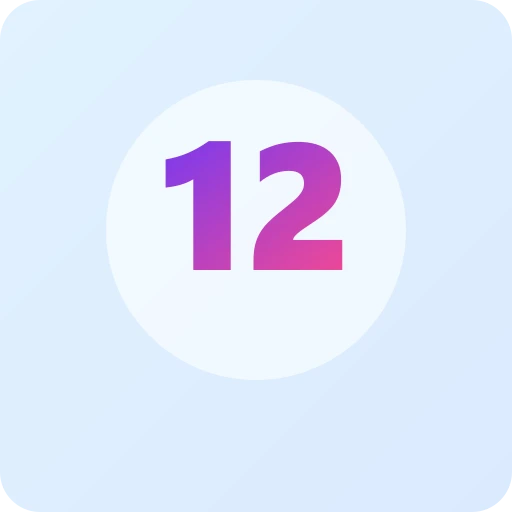
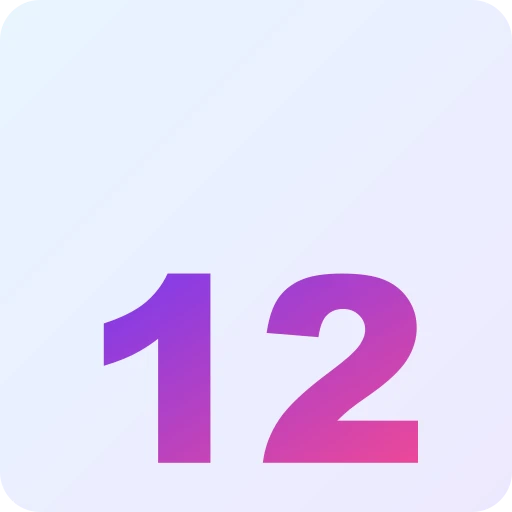
Fix letter choices shuffling, VO replay, image preloading, bigger numbers
Critical fix: LetterDragDrop choices were reshuffling on every render
because `letters` array was recreated each time, invalidating useMemo.
Now depends only on `word` string. Used choices go invisible but keep
position (opacity-0, pointer-events-none). Proper slot-to-choice mapping
via usedMap so removal restores the correct choice.

Other fixes:
- VO now replays when returning to a previously visited word in Learn
- Image preloading: batch-loads level images on mount via requestIdleCallback
- Xylophone.mp3 copied from source project
- Number images regenerated: bigger text, centered with dominant-baseline
- Pre-filled slots use light teal (not purple) to distinguish from empty
- Reduced gap between image and practice area
- Slots and choices bigger (w-10 h-12 / sm:w-12 sm:h-14)

Changed region(s): [[0.1875, 0.25, 0.8438, 0.9062]]

diff --git a/src/components/practice/LetterDragDrop.jsx b/src/components/practice/LetterDragDrop.jsx
@@ -1,4 +1,4 @@
-import { useState, useMemo, useCallback, useRef } from 'react'
+import { useState, useMemo, useCallback } from 'react'
 import { motion } from 'framer-motion'
 
 function shuffleArray(arr) {
@@ -12,135 +12,118 @@ function shuffleArray(arr) {
 
 export default function LetterDragDrop({ current, level, onCorrect, onWrong, answered }) {
   const word = current.word.toLowerCase()
-  const letters = word.split('')
 
-  const { slots: initialSlots, choices: initialChoices } = useMemo(() => {
+  const { prefilled, choices } = useMemo(() => {
+    const letters = word.split('')
+    let prefilled
+    let choiceLetters
+
     if (level === 2) {
       const revealed = new Set()
       const revealCount = Math.max(1, Math.floor(letters.length * 0.4))
       while (revealed.size < revealCount) {
         revealed.add(Math.floor(Math.random() * letters.length))
       }
-      const slots = letters.map((l, i) => revealed.has(i) ? l : null)
-      const missing = letters.filter((_, i) => !revealed.has(i))
-      return { slots, choices: shuffleArray(missing) }
+      prefilled = letters.map((l, i) => revealed.has(i) ? l : null)
+      choiceLetters = letters.filter((_, i) => !revealed.has(i))
+    } else if (level === 3) {
+      prefilled = letters.map(() => null)
+      choiceLetters = [...letters]
+    } else {
+      prefilled = letters.map(() => null)
+      const extras = 'abcdefghijklmnopqrstuvwxyz'.split('').filter(c => !letters.includes(c))
+      const distractorCount = Math.min(Math.max(4, Math.floor(letters.length * 0.6)), extras.length)
+      const distractors = shuffleArray(extras).slice(0, distractorCount)
+      choiceLetters = [...letters, ...distractors]
     }
-    if (level === 3) {
-      const slots = letters.map(() => null)
-      return { slots, choices: shuffleArray([...letters]) }
-    }
-    const slots = letters.map(() => null)
-    const extras = 'abcdefghijklmnopqrstuvwxyz'.split('').filter(c => !letters.includes(c))
-    const distractorCount = Math.min(Math.max(4, Math.floor(letters.length * 0.6)), extras.length)
-    const distractors = shuffleArray(extras).slice(0, distractorCount)
-    return { slots, choices: shuffleArray([...letters, ...distractors]) }
-  }, [current.word, level, letters])
 
-  const [slots, setSlots] = useState(initialSlots)
-  const [usedChoices, setUsedChoices] = useState(new Set())
+    return {
+      prefilled,
+      choices: shuffleArray(choiceLetters),
+    }
+  // eslint-disable-next-line react-hooks/exhaustive-deps
+  }, [word, level])
+
+  const [slots, setSlots] = useState(prefilled)
+  const [usedMap, setUsedMap] = useState({})
   const [wrongSlot, setWrongSlot] = useState(null)
-  const [draggingIdx, setDraggingIdx] = useState(null)
-  const slotRefs = useRef([])
 
-  const nextEmptySlot = slots.findIndex(s => s === null)
+  const letters = word.split('')
+  const nextEmpty = slots.findIndex(s => s === null)
 
-  const placeLetter = useCallback((letter, choiceIndex) => {
-    if (answered) return
-    if (nextEmptySlot === -1) return
+  const placeLetter = useCallback((letter, choiceIdx) => {
+    if (answered || nextEmpty === -1) return
 
-    const correctLetter = letters[nextEmptySlot]
-    if (letter === correctLetter) {
+    if (letter === letters[nextEmpty]) {
       const newSlots = [...slots]
-      newSlots[nextEmptySlot] = letter
+      newSlots[nextEmpty] = letter
       setSlots(newSlots)
-      setUsedChoices(prev => new Set([...prev, choiceIndex]))
+      setUsedMap(prev => ({ ...prev, [choiceIdx]: nextEmpty }))
 
       if (newSlots.every(s => s !== null)) {
         setTimeout(onCorrect, 300)
       }
     } else {
-      setWrongSlot(nextEmptySlot)
+      setWrongSlot(nextEmpty)
       setTimeout(() => setWrongSlot(null), 500)
       onWrong()
     }
-    setDraggingIdx(null)
-  }, [answered, nextEmptySlot, letters, slots, onCorrect, onWrong])
+  }, [answered, nextEmpty, letters, slots, onCorrect, onWrong])
 
-  const removeFromSlot = useCallback((slotIndex) => {
+  const removeFromSlot = useCallback((slotIdx) => {
     if (answered) return
-    if (initialSlots[slotIndex] !== null) return
-    if (slots[slotIndex] === null) return
+    if (prefilled[slotIdx] !== null) return
+    if (slots[slotIdx] === null) return
 
     let lastFilled = -1
     for (let i = slots.length - 1; i >= 0; i--) {
-      if (slots[i] !== null && initialSlots[i] === null) { lastFilled = i; break }
+      if (slots[i] !== null && prefilled[i] === null) { lastFilled = i; break }
     }
-    if (slotIndex !== lastFilled) return
+    if (slotIdx !== lastFilled) return
 
     const newSlots = [...slots]
-    newSlots[slotIndex] = null
+    newSlots[slotIdx] = null
     setSlots(newSlots)
 
-    const usedArr = [...usedChoices]
-    const lastUsed = usedArr[usedArr.length - 1]
-    const newUsed = new Set(usedArr.slice(0, -1))
-    setUsedChoices(newUsed)
-  }, [answered, slots, initialSlots, usedChoices])
-
-  const handleDragStart = useCallback((e, choiceIndex) => {
-    setDraggingIdx(choiceIndex)
-    e.dataTransfer.setData('text/plain', String(choiceIndex))
-    e.dataTransfer.effectAllowed = 'move'
-  }, [])
-
-  const handleTouchStart = useCallback((choiceIndex) => {
-    setDraggingIdx(choiceIndex)
-  }, [])
-
-  const handleTouchEnd = useCallback((letter, choiceIndex) => {
-    if (draggingIdx === choiceIndex) {
-      placeLetter(letter, choiceIndex)
+    const choiceIdx = Object.entries(usedMap).find(([, s]) => s === slotIdx)?.[0]
+    if (choiceIdx != null) {
+      setUsedMap(prev => {
+        const next = { ...prev }
+        delete next[choiceIdx]
+        return next
+      })
     }
-    setDraggingIdx(null)
-  }, [draggingIdx, placeLetter])
+  }, [answered, slots, prefilled, usedMap])
 
-  const handleDrop = useCallback((e) => {
-    e.preventDefault()
-    const choiceIndex = Number(e.dataTransfer.getData('text/plain'))
-    if (!isNaN(choiceIndex) && !usedChoices.has(choiceIndex)) {
-      placeLetter(initialChoices[choiceIndex], choiceIndex)
-    }
-  }, [initialChoices, usedChoices, placeLetter])
-
-  const handleDragOver = useCallback((e) => {
-    e.preventDefault()
-    e.dataTransfer.dropEffect = 'move'
-  }, [])
+  const usedSet = new Set(Object.keys(usedMap).map(Number))
 
   return (
-    <div className="flex flex-col items-center gap-3 w-full">
-      {/* Slots */}
+    <div className="flex flex-col items-center gap-2 w-full">
+      {/* Slots row */}
       <div
-        className="flex flex-wrap justify-center gap-1 sm:gap-1.5"
-        onDrop={handleDrop}
-        onDragOver={handleDragOver}
+        className="flex flex-wrap justify-center gap-1.5 sm:gap-2"
+        onDragOver={(e) => { e.preventDefault(); e.dataTransfer.dropEffect = 'move' }}
+        onDrop={(e) => {
+          e.preventDefault()
+          const idx = Number(e.dataTransfer.getData('text/plain'))
+          if (!isNaN(idx) && !usedSet.has(idx)) placeLetter(choices[idx], idx)
+        }}
       >
         {slots.map((letter, i) => {
-          const isPreFilled = initialSlots[i] !== null
-          const isCurrent = i === nextEmptySlot
+          const isPre = prefilled[i] !== null
+          const isCurrent = i === nextEmpty
           const isWrong = wrongSlot === i
           return (
             <motion.div
               key={i}
-              ref={el => slotRefs.current[i] = el}
-              className={`w-8 h-10 sm:w-10 sm:h-12 md:w-12 md:h-14 rounded-xl flex items-center justify-center text-lg sm:text-xl md:text-2xl font-extrabold border-2 transition-all
-                ${isPreFilled ? 'bg-purple-100 border-purple-200 text-purple-600' : ''}
-                ${!isPreFilled && letter ? 'bg-teal-100 border-teal-300 text-teal-700 cursor-pointer' : ''}
-                ${!isPreFilled && !letter && isCurrent ? 'bg-yellow-50 border-yellow-400 border-dashed' : ''}
-                ${!isPreFilled && !letter && !isCurrent ? 'bg-gray-50 border-gray-200' : ''}
+              className={`w-10 h-12 sm:w-12 sm:h-14 rounded-xl flex items-center justify-center text-xl sm:text-2xl font-extrabold border-2
+                ${isPre ? 'bg-teal-50 border-teal-200 text-teal-600' : ''}
+                ${!isPre && letter ? 'bg-teal-100 border-teal-300 text-teal-700 cursor-pointer' : ''}
+                ${!isPre && !letter && isCurrent ? 'bg-yellow-50 border-yellow-400 border-dashed' : ''}
+                ${!isPre && !letter && !isCurrent ? 'bg-gray-50 border-gray-200' : ''}
                 ${isWrong ? 'bg-red-100 border-red-400' : ''}
               `}
-              animate={isWrong ? { x: [0, -5, 5, -5, 0] } : {}}
+              animate={isWrong ? { x: [0, -6, 6, -6, 0] } : {}}
               transition={{ duration: 0.3 }}
               onClick={() => removeFromSlot(i)}
             >
@@ -150,30 +133,27 @@ export default function LetterDragDrop({ current, level, onCorrect, onWrong, ans
         })}
       </div>
 
-      {/* Letter choices - stable positions, used ones become invisible */}
-      <div className="flex flex-wrap justify-center gap-1 sm:gap-1.5 mt-1">
-        {initialChoices.map((letter, i) => {
-          const isUsed = usedChoices.has(i)
+      {/* Choices — FIXED grid, used ones go invisible but keep space */}
+      <div className="flex flex-wrap justify-center gap-1.5 sm:gap-2">
+        {choices.map((letter, i) => {
+          const isUsed = usedSet.has(i)
           return (
             <div
-              key={`choice-${i}`}
-              className="w-8 h-10 sm:w-10 sm:h-12 md:w-12 md:h-14"
+              key={i}
+              className={`w-10 h-12 sm:w-12 sm:h-14 rounded-xl flex items-center justify-center text-xl sm:text-2xl font-extrabold border-2 transition-opacity
+                ${isUsed
+                  ? 'opacity-0 pointer-events-none border-transparent'
+                  : 'bg-white border-pink-200 text-pink-600 shadow-md cursor-pointer active:scale-90 active:bg-pink-50'
+                }
+              `}
+              draggable={!isUsed}
+              onDragStart={(e) => {
+                e.dataTransfer.setData('text/plain', String(i))
+                e.dataTransfer.effectAllowed = 'move'
+              }}
+              onClick={() => { if (!isUsed) placeLetter(letter, i) }}
             >
-              {!isUsed && (
-                <motion.button
-                  className={`w-full h-full rounded-xl bg-white border-2 border-pink-200 text-pink-600 text-lg sm:text-xl md:text-2xl font-extrabold shadow-md active:scale-90 transition-all flex items-center justify-center cursor-grab active:cursor-grabbing
-                    ${draggingIdx === i ? 'opacity-50 scale-95' : ''}
-                  `}
-                  draggable
-                  onDragStart={(e) => handleDragStart(e, i)}
-                  onTouchStart={() => handleTouchStart(i)}
-                  onTouchEnd={() => handleTouchEnd(letter, i)}
-                  onClick={() => placeLetter(letter, i)}
-                  whileTap={{ scale: 0.85 }}
-                >
-                  {letter}
-                </motion.button>
-              )}
+              {letter}
             </div>
           )
         })}

diff --git a/src/components/PracticeMode.jsx b/src/components/PracticeMode.jsx
@@ -5,6 +5,7 @@ import { getVocabForLevel, LEVELS } from '../data/vocabulary'
 import { playWordVO, playCorrectEncouragement, playWrongEncouragement, playCelebration, stopAll, delay } from '../utils/audioPlayer'
 import { trackWordPracticed, trackLevelCompleted } from '../utils/progress'
 import { fireConfetti, fireCelebration as confettiCelebration } from '../utils/confetti'
+import { preloadLevelImages } from '../utils/preloadImages'
 import MultipleChoice from './practice/MultipleChoice'
 import LetterDragDrop from './practice/LetterDragDrop'
 import useSwipe from '../utils/useSwipe'
@@ -23,6 +24,10 @@ export default function PracticeMode({ level, onBack, onHome }) {
       ;[arr[i], arr[j]] = [arr[j], arr[i]]
     }
     return arr
+  }, [allVocab])
+
+  useEffect(() => {
+    preloadLevelImages(allVocab)
   }, [allVocab])
 
   const current = shuffled[index]
@@ -128,12 +133,12 @@ export default function PracticeMode({ level, onBack, onHome }) {
         )}
       </AnimatePresence>
 
-      {/* Landscape content: image LEFT, practice RIGHT */}
-      <div className="flex-1 flex items-center justify-center px-4 py-2 min-h-0 gap-4 sm:gap-8">
+      {/* Landscape content: image LEFT, practice RIGHT — tight gap */}
+      <div className="flex-1 flex items-center justify-center px-3 py-1 min-h-0 gap-3 sm:gap-5">
         <AnimatePresence mode="wait">
           <motion.div
             key={index}
-            className="flex items-center justify-center gap-4 sm:gap-8 w-full max-w-5xl"
+            className="flex items-center justify-center gap-3 sm:gap-5 w-full max-w-5xl"
             initial={{ opacity: 0, scale: 0.9 }}
             animate={{ opacity: 1, scale: 1 }}
             exit={{ opacity: 0, scale: 0.9 }}
@@ -155,7 +160,7 @@ export default function PracticeMode({ level, onBack, onHome }) {
               </button>
             </div>
 
-            {/* Practice area on the right */}
+            {/* Practice area on the right — tight spacing */}
             <div className="flex-1 min-w-0 flex flex-col items-center justify-center">
               {level === 1 ? (
                 <MultipleChoice

diff --git a/src/components/LearnMode.jsx b/src/components/LearnMode.jsx
@@ -4,7 +4,8 @@ import { ArrowLeft, ArrowRight, Home, Volume2 } from 'lucide-react'
 import { getVocabForLevel, LEVELS } from '../data/vocabulary'
 import { playWordVO, stopAll, delay, startIdleTimer, clearIdleTimer, resetIdleTimer } from '../utils/audioPlayer'
 import { trackWordLearned, trackLevelCompleted } from '../utils/progress'
-import { fireCelebration, fireConfetti } from '../utils/confetti'
+import { fireCelebration } from '../utils/confetti'
+import { preloadLevelImages } from '../utils/preloadImages'
 import useSwipe from '../utils/useSwipe'
 
 export default function LearnMode({ level, onBack, onHome }) {
@@ -14,11 +15,14 @@ export default function LearnMode({ level, onBack, onHome }) {
   const [showNav, setShowNav] = useState(false)
   const [imgLoaded, setImgLoaded] = useState(false)
   const navTimer = useRef(null)
-  const voPlayed = useRef(new Set())
 
   const current = vocab[index]
   const isFirst = index === 0
   const isLast = index === vocab.length - 1
+
+  useEffect(() => {
+    preloadLevelImages(vocab)
+  }, [vocab])
 
   const playCurrentWord = useCallback(async () => {
     if (!current) return
@@ -28,10 +32,7 @@ export default function LearnMode({ level, onBack, onHome }) {
 
   useEffect(() => {
     setImgLoaded(false)
-    if (!voPlayed.current.has(index)) {
-      voPlayed.current.add(index)
-      playCurrentWord()
-    }
+    playCurrentWord()
     trackWordLearned(level, current?.word)
     startIdleTimer(() => {}, 20000)
     return () => clearIdleTimer()
@@ -132,7 +133,6 @@ export default function LearnMode({ level, onBack, onHome }) {
                 onError={(e) => { e.target.src = '/images/placeholder.svg'; setImgLoaded(true) }}
                 draggable={false}
               />
-              {/* Speaker button on image */}
               <button
                 onClick={(e) => { e.stopPropagation(); handleSpeaker() }}
                 className="absolute top-1 right-1 sm:top-2 sm:right-2 p-2 bg-gradient-to-br from-pink-400 to-rose-400 rounded-full shadow-lg active:scale-90 transition-transform"

diff --git a/src/utils/preloadImages.js b/src/utils/preloadImages.js
@@ -1,0 +1,19 @@
+const preloaded = new Set()
+
+export function preloadLevelImages(vocab, batchSize = 15) {
+  let i = 0
+  function loadBatch() {
+    const batch = vocab.slice(i, i + batchSize)
+    batch.forEach(item => {
+      if (preloaded.has(item.image)) return
+      preloaded.add(item.image)
+      const img = new Image()
+      img.src = item.image
+    })
+    i += batchSize
+    if (i < vocab.length) {
+      requestIdleCallback ? requestIdleCallback(loadBatch) : setTimeout(loadBatch, 100)
+    }
+  }
+  loadBatch()
+}
